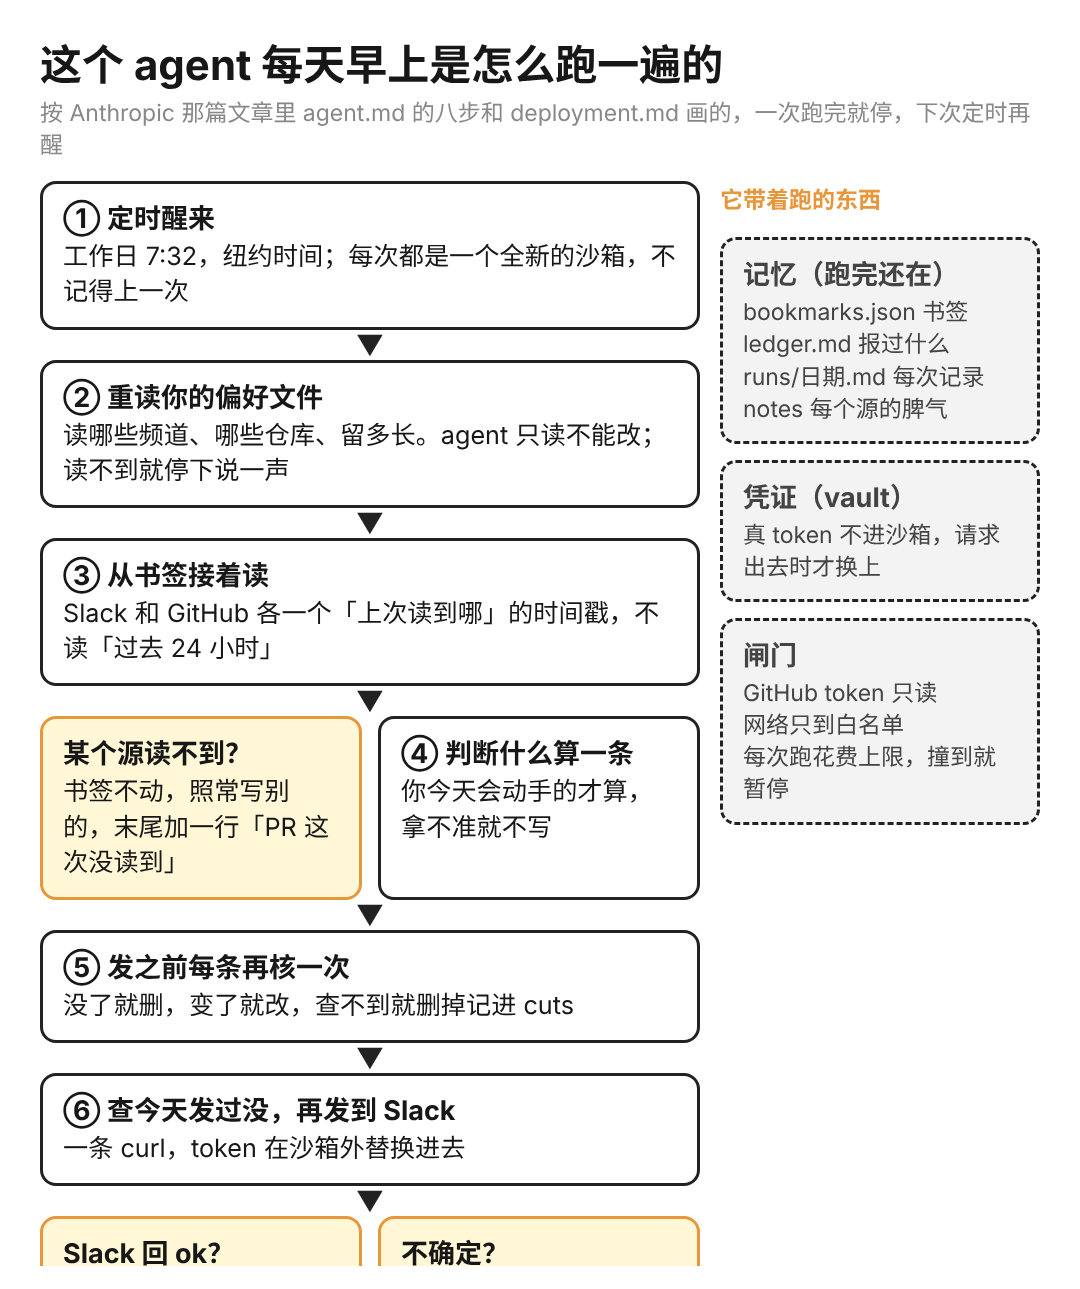
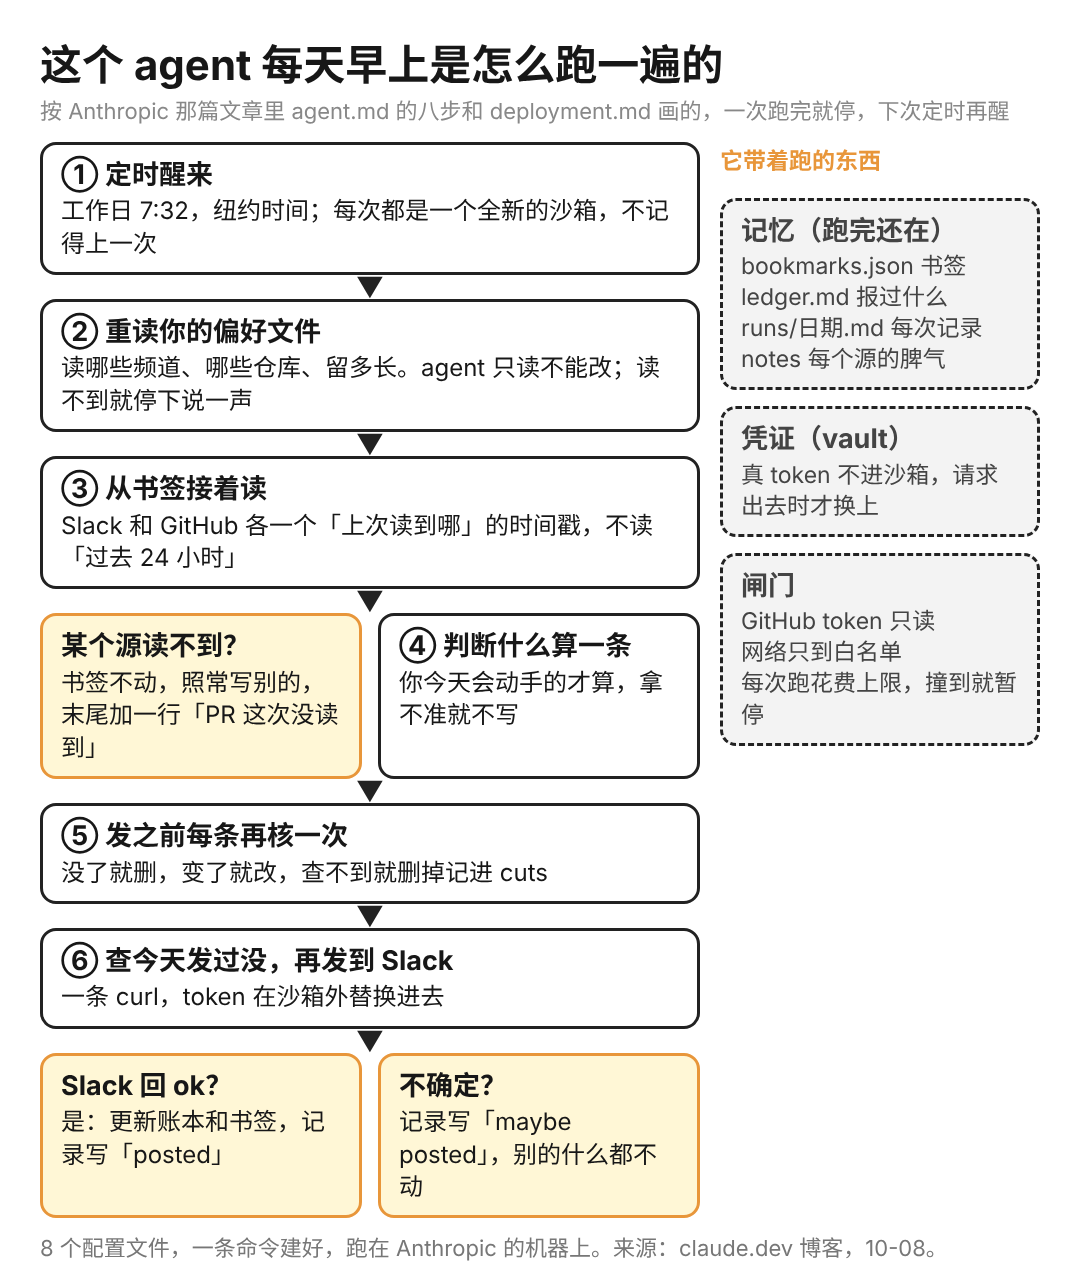
agent automations 稿：流程图缩到一页内
Claude-Session: https://claude.ai/code/session_015PCFAaTRLY2GD1Se7DV5ug

diff --git a/发布/2026-10-09_agent-automations/meme版/编辑用/flow.html b/发布/2026-10-09_agent-automations/meme版/编辑用/flow.html
@@ -2,14 +2,14 @@
 body{margin:0;width:540px;height:720px;background:#fff;font-family:-apple-system,"PingFang SC","Noto Sans CJK SC",sans-serif;color:#171717}
 .wrap{padding:16px 20px 0}
 h1{font-size:21px;margin:0 0 2px;font-weight:700}
-.sub{font-size:11.5px;color:#888;margin-bottom:10px;line-height:1.4}
+.sub{font-size:11px;color:#888;margin-bottom:7px;line-height:1.4}
 .row{display:flex;gap:10px;align-items:stretch}
 .col{flex:1;display:flex;flex-direction:column;align-items:center}
-.box{border:1.8px solid #222;border-radius:8px;padding:8px 10px;font-size:12.6px;line-height:1.4;width:100%;box-sizing:border-box;background:#fff}
+.box{border:1.8px solid #222;border-radius:8px;padding:6px 9px;font-size:12px;line-height:1.35;width:100%;box-sizing:border-box;background:#fff}
 .box b{display:block;font-size:13.5px;margin-bottom:1px}
 .box.y{background:#fff7d6;border-color:#e8963a}
 .box.g{background:#f3f3f3;border-style:dashed;color:#444}
-.arrow{height:15px;display:flex;align-items:center;justify-content:center;color:#222;font-size:14px;line-height:1}
+.arrow{height:12px;display:flex;align-items:center;justify-content:center;color:#222;font-size:14px;line-height:1}
 .branch{display:flex;gap:8px;width:100%}
 .branch .box{flex:1}
 .side{width:160px;display:flex;flex-direction:column;gap:8px}
